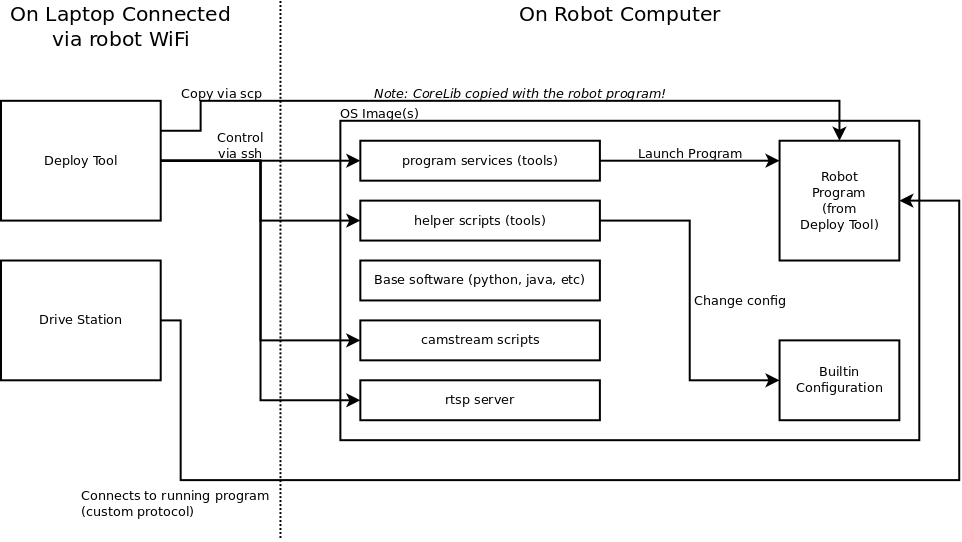
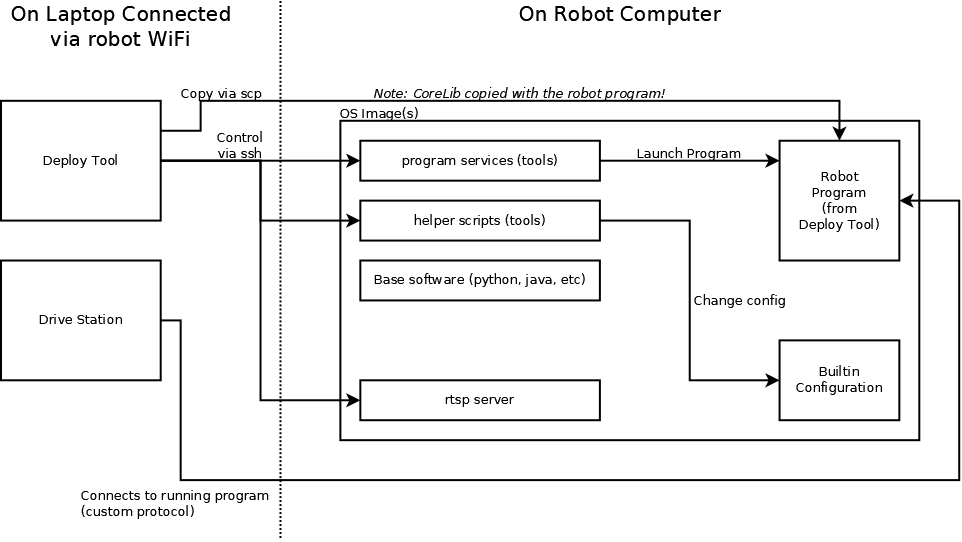
Cleanup dev docs

diff --git a/docs/devs/overview.md b/docs/devs/overview.md
@@ -11,22 +11,19 @@ There are various components of the framework. Some are used on the development 
 
 ![](./components.png)
 
+Each component's repo will have a readme describing how to build, use, and package that component.
 
 **Development PC Components:**
 
 - [Drive Station](https://github.com/ArPiRobot/ArPiRobot-DriveStation): Program that runs on the PC and connects to a program running on the robot over network. Uses custom communication protocol to enable / disable the robot, implement a network table (key / value pairs shared between robot and drive station), retrieve logs, and send controller (gamepad) data to the robot.  
 - [Mobile Drive Station](https://github.com/orgs/ArPiRobot/repositories): Drive station that runs on an android phone or tablet. Uses virtual (on-screen) gamepad to control the robot.  
 - [Deploy Tool](https://github.com/ArPiRobot/ArPiRobot-DeployTool): Program that runs on the PC. Primarily used to deploy a program to the robot. Also implements various features to configure and monitor the robot. Additionally acts as a front-end for camera stream components.  
-- [Visual Studio Code Extension](https://github.com/ArPiRobot/ArPiRobot-VSCodeExtension): Extension for Visual Studio Code that can create ArPiRobot projects from a template.  
-- [C++ Toolchains](https://github.com/ArPiRobot/ArPiRobot-Toolchain): GNU cross compiler toolchains capable of building C / C++ programs to run on the robot. Prebuilt toolchains are provided for each officially supported target architecture. Builds to run on Windows (x86_64), macOS (x86_64), and Linux (x86_64) are provided.  
-
+- [Visual Studio Code Extension](https://github.com/ArPiRobot/ArPiRobot-VSCodeExtension): Extension for Visual Studio Code that can create ArPiRobot projects from a template.
 
 **Robot Components:**
 
 - [CoreLib](https://github.com/ArPiRobot/ArPiRobot-CoreLib): The core library used by robot programs. Implements: custom network protocol for use with drive station, logging, code to control various devices, multiple I/O backend libraries, a base class for robots, a scheduler driven action system, and an interface to an Arduino running the official Arduino Firmware. *Note that while this is used on the robot, it is not included with OS images. Update packages for the CoreLib are installed by the deploy tool on the development PC. The CoreLib is deployed with the robot program. Thus, the CoreLib version used will be the version installed on the development PC.*
-- [ArPiRobot-Tools](https://github.com/ArPiRobot/ArPiRobot-Tools): Various scripts used by the deploy tool and services used to manage the robot program. Included with the OS image.  
 - [Arduino Firmware](https://github.com/ArPiRobot/ArPiRobot-ArduinoFirmware): Runs on an Arduino connected to the robot's main computer. Implements various device drivers to control many types of sensors. Configured by the robot program.  
-- [Camera Streaming](https://github.com/ArPiRobot/ArPiRobot-CameraStreaming): Camera streaming services and scripts. Focused on realtime, low-latency streams for use on the robot. Included with the OS image.  
 - [Image Scripts](https://github.com/ArPiRobot/ArPiRobot-ImageScripts): Used to create OS images for all officially supported boards.  
 
 
